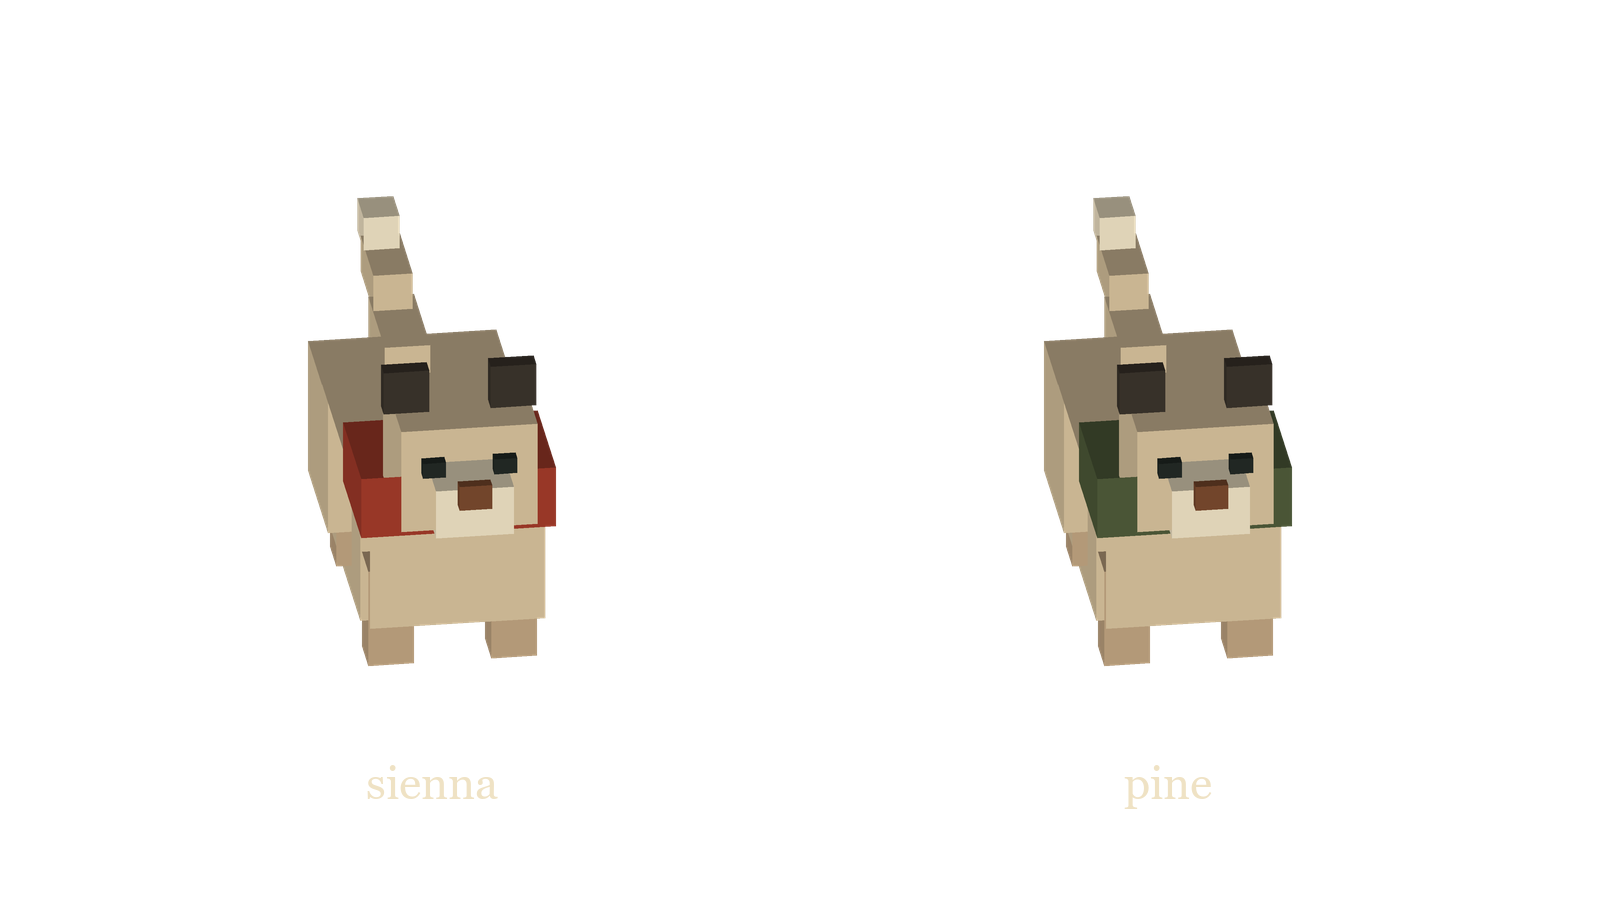
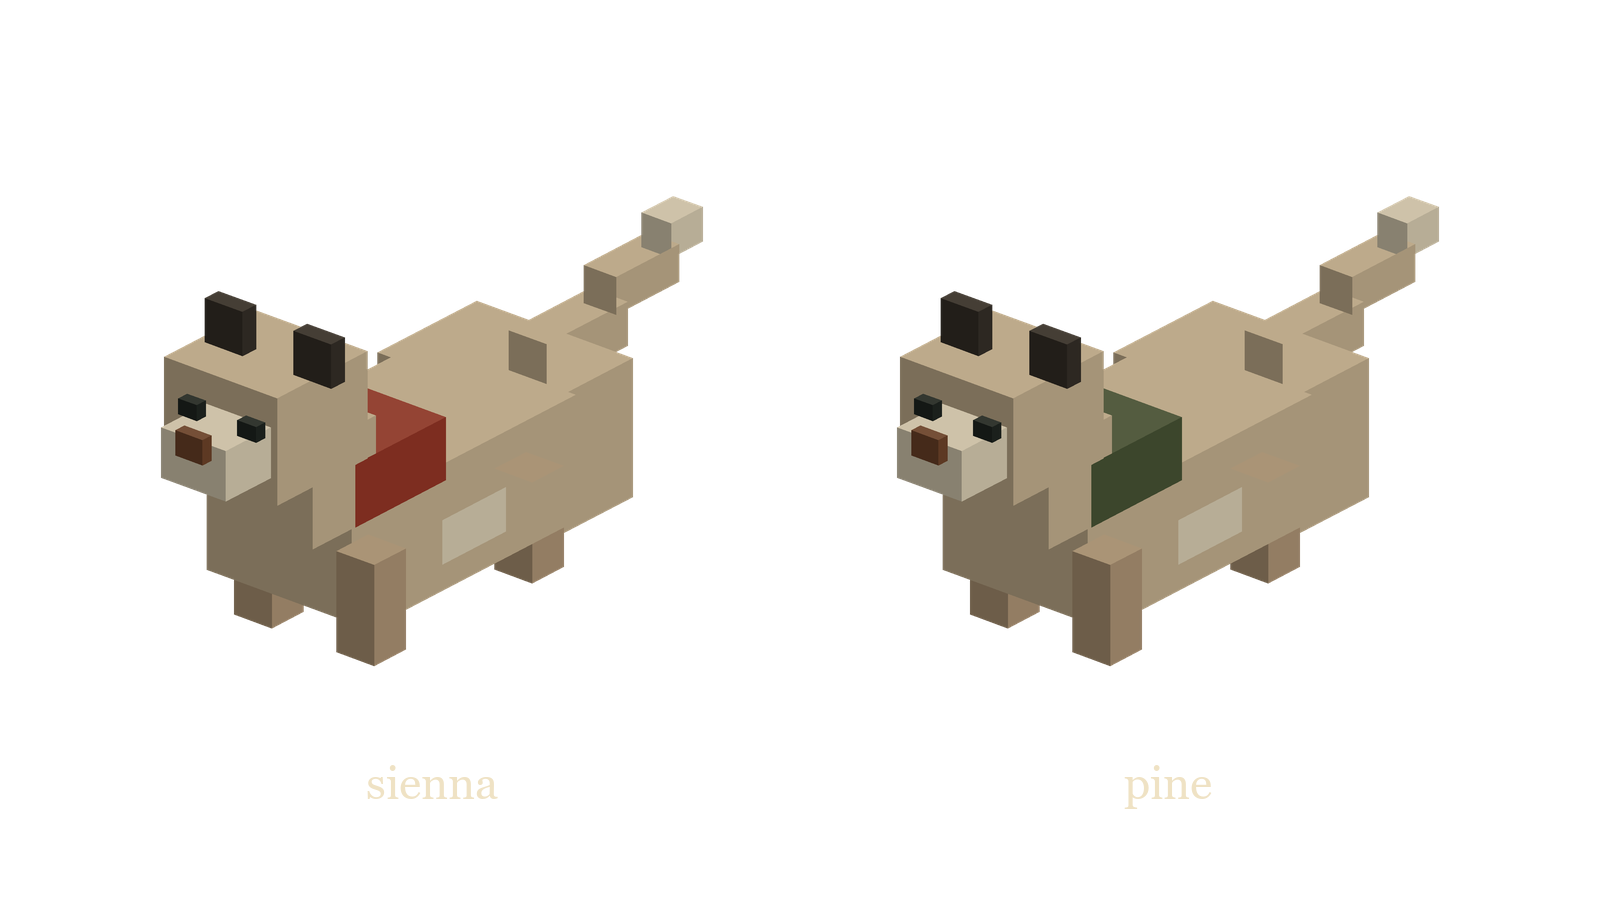
fix: light the model sheet properly (v0.6.3)
The leopards read as underlit. Two causes, both in the renderer:

- Every cube face was paired with another face's normal. The silhouette stayed
  correct, so it was easy to miss, but each face took the wrong light and
  backface culling kept the wrong faces. The table is now ordered to match the
  corner indexing, and a check confirms each face's corners share the bit its
  normal names.
- The sun vector had the sign of x flipped, which put the key light nearly on
  the camera axis and lit the chest as brightly as the back. It now comes from
  the scene's own Sun transform, with the warm sky and sienna ground bounce
  GridFloor sets as ambient.

The portrait camera moved to sit between the model's facing and the sun, so
the pair is lit from the front rather than behind.

Changed region(s): [[0.5625, 0.2178, 0.9062, 0.7467], [0.0938, 0.2178, 0.4375, 0.7467]]

diff --git a/tools/render_models.py b/tools/render_models.py
@@ -84,17 +84,29 @@ def dot(a, b):
 
 
 CORNERS = [(sx, sy, sz) for sx in (-1, 1) for sy in (-1, 1) for sz in (-1, 1)]
-FACES = (((0, 1, 3, 2), (0, 0, -1)), ((4, 6, 7, 5), (0, 0, 1)),
-         ((0, 4, 5, 1), (-1, 0, 0)), ((2, 3, 7, 6), (1, 0, 0)),
-         ((1, 5, 7, 3), (0, 1, 0)), ((0, 2, 6, 4), (0, -1, 0)))
-LIGHT = (-0.38, 0.84, -0.39)
+# CORNERS is indexed 4*bx + 2*by + bz, with each b 0 for -1 and 1 for +1, so a face is
+# the four corners sharing one bit. Pairing a face with another face's normal is an easy
+# mistake to make and a hard one to see: the silhouette stays right while every face
+# takes someone else's light.
+FACES = (((0, 2, 6, 4), (0, 0, -1)), ((1, 5, 7, 3), (0, 0, 1)),
+         ((0, 1, 3, 2), (-1, 0, 0)), ((4, 6, 7, 5), (1, 0, 0)),
+         ((2, 3, 7, 6), (0, 1, 0)), ((0, 4, 5, 1), (0, -1, 0)))
+# The scene's own Sun: its transform points the light along (-0.384, -0.743, 0.548),
+# so this is the vector pointing back at it. Getting the sign of x wrong put the key
+# light almost on the camera axis, which lit the chest as brightly as the back and read
+# as underlit.
+LIGHT = (0.384, 0.743, -0.548)
 
 
 def shade(c, n):
     nl = max(0.0, dot(n, LIGHT))
-    k = 0.58 + 0.42 * nl
-    out = tuple(min(255, round(v * k)) for v in c)
-    return out if nl > 0.05 else lerp(out, SIENNA, 0.08)   # warm bounce in the shade
+    out = tuple(min(255, round(v * (0.40 + 0.60 * nl))) for v in c)
+    # GridFloor sets a trilight ambient: warm sky above, sienna bounce off the ground.
+    if n[1] > 0.3:
+        return lerp(out, CREAM, 0.10 * n[1])
+    if n[1] < -0.3 or nl < 0.05:
+        return lerp(out, SIENNA, 0.10)
+    return out
 
 
 def project(boxes, yaw_model, cam):
@@ -135,7 +147,9 @@ def sheet(transparent):
     img = Image.new("RGBA", (W * SS, H * SS), bg)
     d = ImageDraw.Draw(img)
 
-    portrait = basis(26, 38)
+    # Viewed from the sun's side, so the face and chest are lit rather than in shadow.
+    # The game camera is fixed at yaw 30 and pitch 58; this is a portrait, not a screenshot.
+    portrait = basis(26, -10)
     base = int(H * 0.74) * SS
 
     for accent, ox in ((SIENNA, 0.27), (PINE, 0.73)):

diff --git a/README.md b/README.md
@@ -6,7 +6,7 @@ A networked two-player co-op puzzle crawler, drawn like a 1970s national park po
 
 This repository is the **Unity client**. The authoritative simulation is a Rust server that is still being built. Until it exists, a mock feed built into the client stands in for it, so the game is fully playable offline.
 
-Current version: **v0.6.2** (see [Versioning](#versioning)).
+Current version: **v0.6.3** (see [Versioning](#versioning)).
 
 ## Requirements
 
@@ -234,6 +234,7 @@ The project follows [Semantic Versioning](https://semver.org). While it is below
 
 | Version | Summary |
 | --- | --- |
+| v0.6.3 | The model sheet is lit properly: its cube faces were each taking another face's normal |
 | v0.6.2 | The model sheet is just the two leopards and their names, plus a transparent version |
 | v0.6.1 | The scarf is wide enough to tell the seats apart, and a renderer that draws the model sheet |
 | v0.6.0 | The solver checks whether a level actually needs two leopards, and the two Foothills levels that did not now do |
